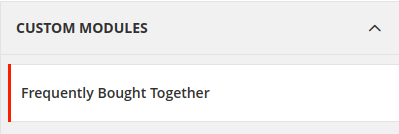
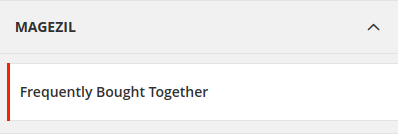
Fixing vendors name

diff --git a/view/frontend/web/requirejs-config.js b/view/frontend/web/requirejs-config.js
@@ -1,7 +1,7 @@
 var config = {
     map: {
         '*': {
-            carouselBoughtTogether: 'CustomModules_BoughtTogether/js/carouselBoughtTogether'
+            carouselBoughtTogether: 'Magezil_BoughtTogether/js/carouselBoughtTogether'
         }
     }
 };

diff --git a/Helper/Data.php b/Helper/Data.php
@@ -1,6 +1,6 @@
 <?php
 
-namespace CustomModules\BoughtTogether\Helper;
+namespace Magezil\BoughtTogether\Helper;
 
 use Magento\Framework\App\Helper\AbstractHelper;
 use Magento\Framework\App\Config\ScopeConfigInterface;
@@ -11,20 +11,20 @@ use Magento\Store\Model\ScopeInterface;
  * Class Data
  *
  * @category Magento
- * @package  CustomModules_BoughtTogether
+ * @package  Magezil_BoughtTogether
  * @author   Lucas Teixeira dos Santos Santana <santanaluc94@gmail.com>
  * @license  NO-LICENSE #
  * @link     http://github.com/santanaluc94
  */
 class Data extends AbstractHelper
 {
-    const MODULE_ENABLE = 'custom_bought_together/general/enable';
-    const BOUGHT_TOGETHER_LOGGED_IN = 'custom_bought_together/general/user_logged';
-    const BOUGHT_TOGETHER_TITLE = 'custom_bought_together/general/title';
-    const BOUGHT_TOGETHER_QUANTITY = 'custom_bought_together/general/products_qty';
-    const SHOW_WISHLIST = 'custom_bought_together/cards_configuration/show_wishlist';
-    const SHOW_COMPARE = 'custom_bought_together/cards_configuration/show_compare';
-    const SHOW_QTY_PRODUCTS = 'custom_bought_together/cards_configuration/qty_products';
+    const MODULE_ENABLE = 'magezil_bought_together/general/enable';
+    const BOUGHT_TOGETHER_LOGGED_IN = 'magezil_bought_together/general/user_logged';
+    const BOUGHT_TOGETHER_TITLE = 'magezil_bought_together/general/title';
+    const BOUGHT_TOGETHER_QUANTITY = 'magezil_bought_together/general/products_qty';
+    const SHOW_WISHLIST = 'magezil_bought_together/cards_configuration/show_wishlist';
+    const SHOW_COMPARE = 'magezil_bought_together/cards_configuration/show_compare';
+    const SHOW_QTY_PRODUCTS = 'magezil_bought_together/cards_configuration/qty_products';
 
     protected $scopeConfig;
     protected $storeManager;

diff --git a/Block/Product/View.php b/Block/Product/View.php
@@ -1,6 +1,6 @@
 <?php
 
-namespace CustomModules\BoughtTogether\Block\Product;
+namespace Magezil\BoughtTogether\Block\Product;
 
 use Magento\Catalog\Block\Product\Context;
 use Magento\Framework\Data\Helper\PostHelper;
@@ -11,7 +11,7 @@ use Magento\Sales\Model\ResourceModel\Order\CollectionFactory as OrderCollection
 use Magento\Framework\Registry;
 use Magento\Customer\Model\Session as CustomerSession;
 use Magento\Catalog\Model\ResourceModel\Product\CollectionFactory as ProductFactory;
-use CustomModules\BoughtTogether\Helper\Data as CustomHelper;
+use Magezil\BoughtTogether\Helper\Data as CustomHelper;
 use Magento\Store\Model\StoreManagerInterface;
 use Magento\Catalog\Block\Product\ListProduct;
 use Magento\Catalog\Model\ResourceModel\Product\Collection as ProductCollection;
@@ -23,7 +23,7 @@ use Magento\Catalog\Model\Product;
  * Class View
  *
  * @category Magento
- * @package  CustomModules_BoughtTogether
+ * @package  Magezil_BoughtTogether
  * @author   Lucas Teixeira dos Santos Santana <santanaluc94@gmail.com>
  * @license  NO-LICENSE #
  * @link     http://github.com/santanaluc94

diff --git a/Controller/Cart/AddProductsSelectedInCart.php b/Controller/Cart/AddProductsSelectedInCart.php
@@ -1,6 +1,6 @@
 <?php
 
-namespace CustomModules\BoughtTogether\Controller\Cart;
+namespace Magezil\BoughtTogether\Controller\Cart;
 
 use Magento\Framework\Controller\ResultFactory;
 use Magento\Framework\App\Action\Action;
@@ -18,7 +18,7 @@ use Magento\Framework\Controller\Result\Redirect;
  * Class AddProductsSelectedInCart
  *
  * @category Magento
- * @package  CustomModules_BoughtTogether
+ * @package  Magezil_BoughtTogether
  * @author   Lucas Teixeira dos Santos Santana <santanaluc94@gmail.com>
  * @license  NO-LICENSE #
  * @link     http://github.com/santanaluc94

diff --git a/registration.php b/registration.php
@@ -2,4 +2,4 @@
 
 use Magento\Framework\Component\ComponentRegistrar;
 
-ComponentRegistrar::register(ComponentRegistrar::MODULE, 'CustomModules_BoughtTogether', __DIR__);
+ComponentRegistrar::register(ComponentRegistrar::MODULE, 'Magezil_BoughtTogether', __DIR__);

diff --git a/README-pt_BR.md b/README-pt_BR.md
@@ -2,10 +2,10 @@
 
 Esse módulo adiciona um bloco na página de produtos, no qual insere todos os produtos que foram comprados frequentemente com o produto da página. É possível editar o título do bloco e quantos produtos serão exibidos nesse bloco. Para habilitar o módulo siga os passos abaixo:
   - Passo 1: Magento admin --> Lojas --> Configurações --> Configuração
-  - Passo 2: Tab _Módulos Personalizados_ --> Seção _Frequentemente Comprados Juntos_ --> Grupo _Configurações Gerais_
+  - Passo 2: Tab _Magezil_ --> Seção _Frequentemente Comprados Juntos_ --> Grupo _Configurações Gerais_
   - Passo 3: Habilitar Módulo = Sim
 
-![ScreenShot](https://github.com/santanaluc94/CustomModules_BoughtTogether/blob/master/Readme/modulo.jpg)
+![ScreenShot](https://github.com/santanaluc94/Magezil_BoughtTogether/blob/master/Readme/modulo.jpg)
 
 ### Configurações Gerais
 
@@ -14,7 +14,7 @@ Esse módulo fornece algumas configurações no admin:
   - Editar título do bloco.
   - Quantidade dos produtos que serão exibidos no frontend. Para não aplicar o filtro, apenas deixe vazio.
 
-![ScreenShot](https://github.com/santanaluc94/CustomModules_BoughtTogether/blob/master/Readme/configuracoes-gerais.jpg)
+![ScreenShot](https://github.com/santanaluc94/Magezil_BoughtTogether/blob/master/Readme/configuracoes-gerais.jpg)
 
 ### Configuração dos Cards
 
@@ -23,15 +23,15 @@ Esse módulo fornece algumas configurações para os cards desse bloco:
   - Exibir botão de adicionar a lista de comparação na lista de produtos frequentemente comprados juntos.
   - Exibir quantidade dos produtos para adicionar ao carrinho na lista de produtos frequentemente comprados juntos.
 
-![ScreenShot](https://github.com/santanaluc94/CustomModules_BoughtTogether/blob/master/Readme/configuracao-card.jpg)
+![ScreenShot](https://github.com/santanaluc94/Magezil_BoughtTogether/blob/master/Readme/configuracao-card.jpg)
 
 ## Loja
 
 Segue os resultados da página do produto com todas as configurações habilitadas.
 
 Listagem de produtos:
-![ScreenShot](https://github.com/santanaluc94/CustomModules_BoughtTogether/blob/master/Readme/listagem-produtos.jpg)
+![ScreenShot](https://github.com/santanaluc94/Magezil_BoughtTogether/blob/master/Readme/listagem-produtos.jpg)
 
 Card completo:
-![ScreenShot](https://github.com/santanaluc94/CustomModules_BoughtTogether/blob/master/Readme/card-produto.jpg)
+![ScreenShot](https://github.com/santanaluc94/Magezil_BoughtTogether/blob/master/Readme/card-produto.jpg)
 

diff --git a/README.md b/README.md
@@ -2,10 +2,10 @@
 
 This module adds a block in product page, which insert all products that were bought together with the product on the page. It is possible to edit the title and how many products will display in this block. To enable this module, follow these steps:
   - Step 1: Magento admin -> Stores -> Settings -> Configurations
-  - Setp 2: Tab _Custom Modules_ -> Section _Frequently Bought Together_ -> Group _General Configuration_
+  - Setp 2: Tab _Magezil_ -> Section _Frequently Bought Together_ -> Group _General Configuration_
   - Setp 3: Enable Module = Yes
 
-![ScreenShot](https://github.com/santanaluc94/CustomModules_BoughtTogether/blob/master/Readme/module.jpg)
+![ScreenShot](https://github.com/santanaluc94/Magezil_BoughtTogether/blob/master/Readme/module.jpg)
 
 ### General settings
 
@@ -14,7 +14,7 @@ This module provides some settings in admin:
   - Edit title block;
   - Quantity of products to display on frontend (to do not apply this filter, just leave it empty).
 
-![ScreenShot](https://github.com/santanaluc94/CustomModules_BoughtTogether/blob/master/Readme/general-settings.jpg)
+![ScreenShot](https://github.com/santanaluc94/Magezil_BoughtTogether/blob/master/Readme/general-settings.jpg)
 
 ### Cards settings
 
@@ -23,15 +23,15 @@ This module provides some settings to cards in this block to:
   - Show button add to compare in list products;
   - Show quantity products to add to cart in list products.
 
-![ScreenShot](https://github.com/santanaluc94/CustomModules_BoughtTogether/blob/master/Readme/cards-settings.jpg)
+![ScreenShot](https://github.com/santanaluc94/Magezil_BoughtTogether/blob/master/Readme/cards-settings.jpg)
 
 ## Frontend
 
 The results of the product page follows below with all settings enabled.
 
 Grid:
-![ScreenShot](https://github.com/santanaluc94/CustomModules_BoughtTogether/blob/master/Readme/block-frontend.jpg)
+![ScreenShot](https://github.com/santanaluc94/Magezil_BoughtTogether/blob/master/Readme/block-frontend.jpg)
 
 Liting product:
-![ScreenShot](https://github.com/santanaluc94/CustomModules_BoughtTogether/blob/master/Readme/listing-product.jpg)
+![ScreenShot](https://github.com/santanaluc94/Magezil_BoughtTogether/blob/master/Readme/listing-product.jpg)
 
